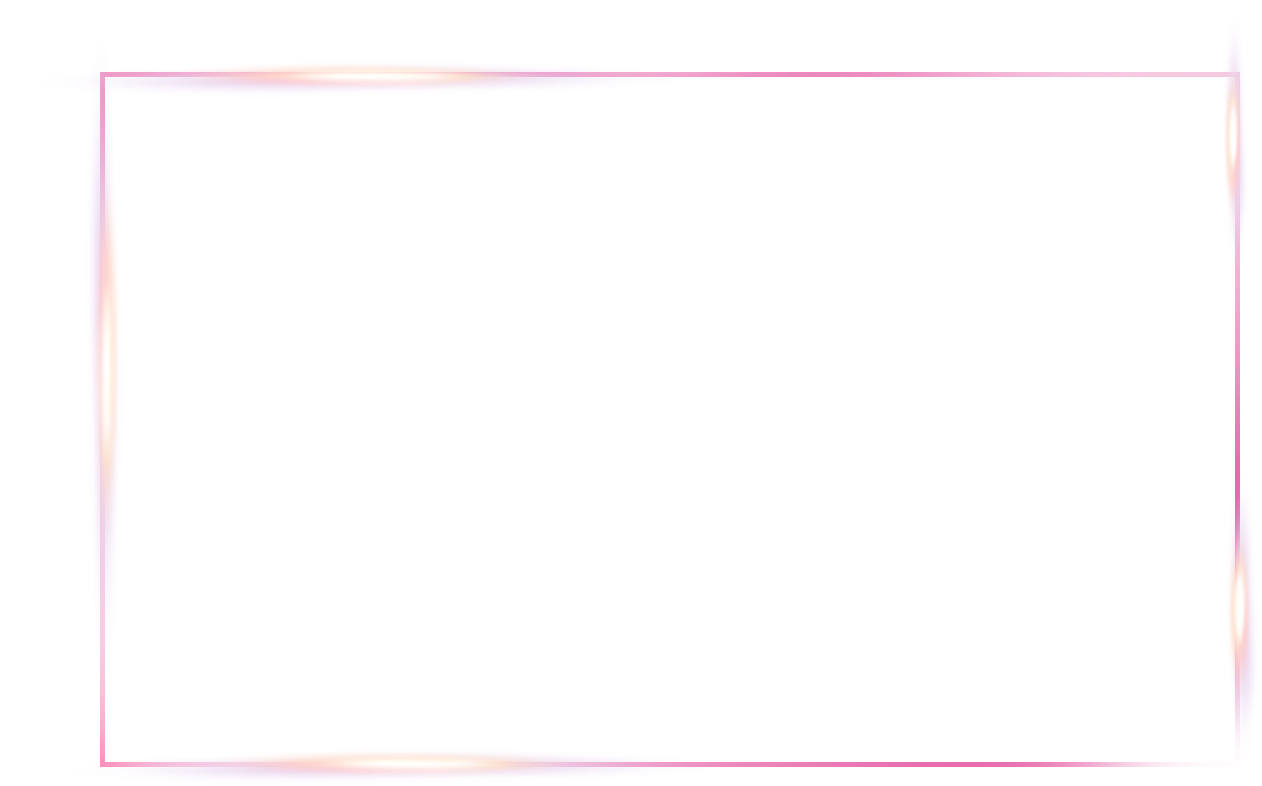
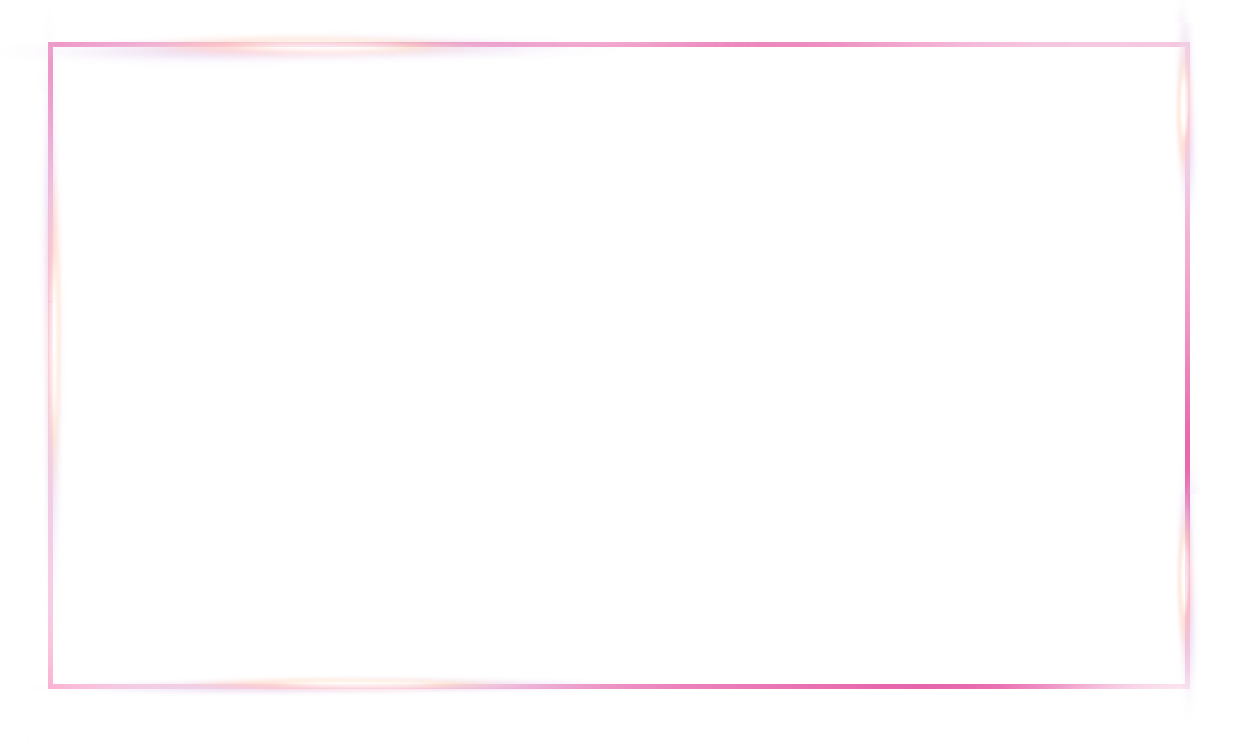
11222

Changed region(s): [[0.0307, 0.0306, 1.0, 1.0]]

diff --git a/css/page.css b/css/page.css
@@ -391,12 +391,12 @@
 	content: " ";
 	display: block;
 	position: absolute;
-	top: -77px;
-	left: -105px;
+	top: -47px;
+	left: -53px;
 	width: 1262px;
 	height: 786px;
 	background: url('../images/pages/m-video.png') no-repeat;
-	z-index: 10;
+	z-index: 1;
 }
 .m-video__bg {
 	height: 1323px;

diff --git a/index.php b/index.php
@@ -78,8 +78,8 @@
 								<div class="m-noti__heading">※ 이벤트 유의사항</div>
 								<ul class="m-noti__list">
 									<li class="m-noti__item">본 행사는 2018년 3월 5일부터 3월 31일까지 진행되며, 기타 사유로 조기 종료할 수 있습니다.</li>
-									 <li class="m-noti__item">경품은 동일인에게 중복증정되지 않으며, 기타 내부 사유로 변경될 수 있습니다. </li>
-									 <li class="m-noti__item">1등 경품 중 클렌징워터는 <em class="c-em">센시비오/세비엄/하이드라비오 클렌징워터 3종 500ml(1명) / 250ml(2명) / 100ml(3명)</em> 으로 랜덤 선정됩니다. </li>
+									<li class="m-noti__item">경품은 동일인에게 중복증정되지 않으며, 기타 내부 사유로 변경될 수 있습니다. </li>
+									<li class="m-noti__item">1등 경품 중 클렌징워터는 <em class="c-em">센시비오/세비엄/하이드라비오 클렌징워터 3종 500ml(1명) / 250ml(2명) / 100ml(3명)</em> 으로 랜덤 선정됩니다. </li>
 								</ul>
 							</div>
 						</div>
@@ -88,12 +88,13 @@
 				<div class="m-video">
 					<div class="m-video__top">
 						<div class="m-video__text"><img src="./images/pages/m-text--1.png" alt="잔여물없이 말끔하게 지워야 진짜 맨얼굴! 건강한 피부만 남기는 모습, 영상으로도 확인하세요" /></div>
-						<a href="#" class="m-video__link">
+						<!-- <a href="#" class="m-video__link"> -->
+						<div class="m-video__link">
 							<div class="m-video__image">
                                 <!-- <img src="./images/pages/m-video__image.png" alt="영상썸네일" /> -->
-                                <iframe allowfullscreen="1" src="https://www.youtube.com/embed/K7ePWfdWeqk?controls=0&loop=1&playlist=K7ePWfdWeqk&modestbranding=1&showinfo=0&wmode=opaque&enablejsapi=1&rel=0&autoplay=1" frameborder="0" id="ytplayer" class="ytplayer" width="1132" height="635"></iframe>
+                                <iframe allowfullscreen="1" src="https://www.youtube.com/embed/K7ePWfdWeqk?controls=0&loop=1&playlist=K7ePWfdWeqk&modestbranding=1&showinfo=0&wmode=opaque&enablejsapi=1&rel=0&autoplay=1" frameborder="0" id="ytplayer" class="ytplayer" width="1131" height="636" style="position:relative;z-index:2"></iframe>
                             </div>
-                        </a>
+                        </div>
 					</div>
 					<div class="m-video__bottom">
 						<div class="m-video__bg">
@@ -126,7 +127,6 @@
     include_once "./popup/popup_agree1.php";
     
 	include_once "./popup/popup_agree2.php";
-
 ?>		
 		</div>
 	</body>
